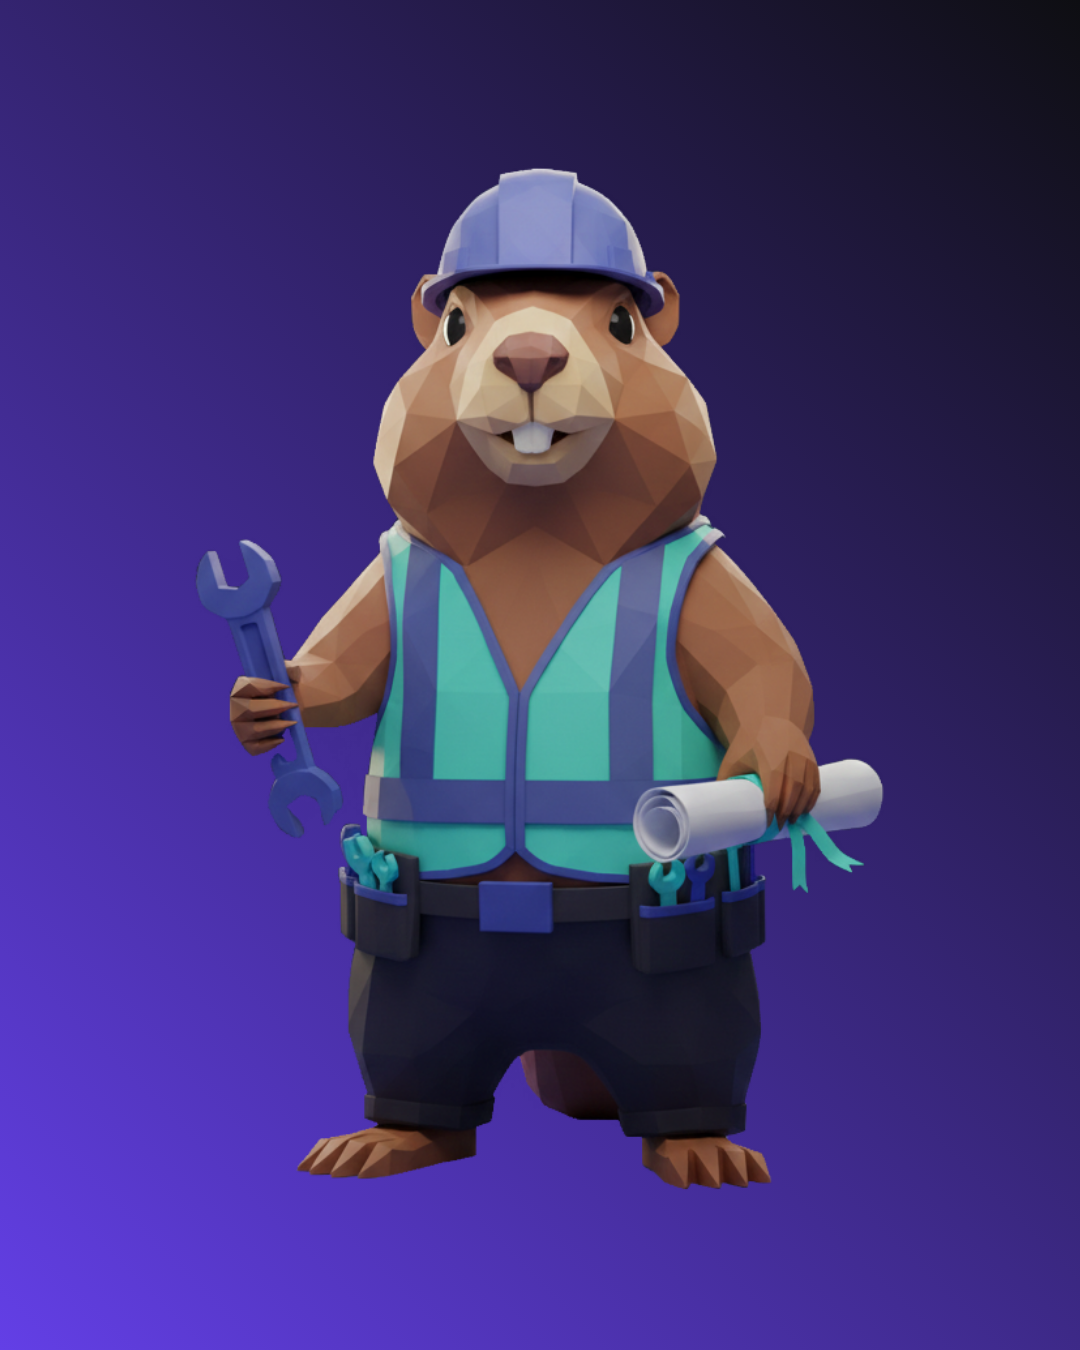
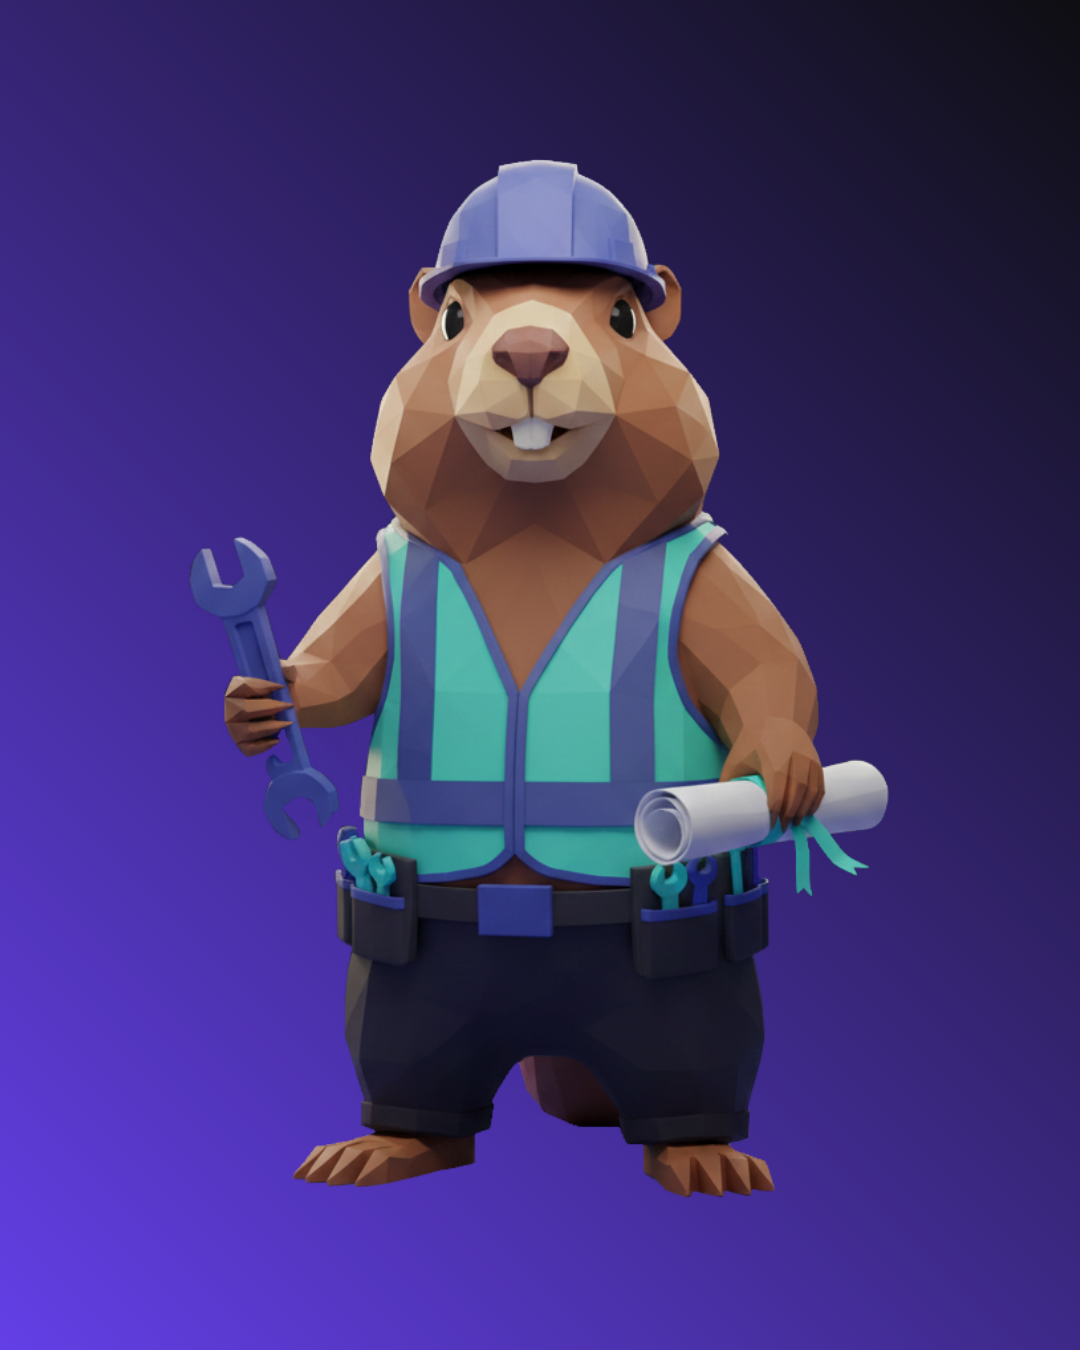
agents page

diff --git a/src/lib/translations.ts b/src/lib/translations.ts
@@ -1668,19 +1668,19 @@ export const translations: Record<Language, Translations> = {
         formError: "Das Kontaktformular konnte nicht geladen werden. Bitte lade die Seite neu oder schreibe uns an hello@noreja.com."
       },
       aiAgents: {
-        title: "KI-Agenten",
+        title: "KI-Agenten bei Noreja",
         subtitle: "Entdecke die nächste Generation intelligenter Automatisierung. Unsere KI-Agenten arbeiten mit deinem Team zusammen, um Prozesse zu optimieren, Entscheidungen zu verbessern und neue Möglichkeiten zu erschließen.",
         cards: {
           card1: {
-            title: "Intelligente Automatisierung",
+            title: "Builder Benny",
             description: "KI-Agenten, die deinen Geschäftskontext verstehen und komplexe Workflows mit Präzision und Anpassungsfähigkeit automatisieren."
           },
           card2: {
-            title: "Nahtlose Integration",
+            title: "Analyst Andy",
             description: "Verbinde KI-Fähigkeiten direkt mit deinen bestehenden Systemen und Prozessen ohne Unterbrechung."
           },
           card3: {
-            title: "Kontinuierliches Lernen",
+            title: "Compliance Conny",
             description: "Agenten, die sich mit deinem Unternehmen weiterentwickeln und aus Interaktionen lernen, um immer genauere Ergebnisse zu liefern."
           }
         },

diff --git a/src/pages/AIAgents.tsx b/src/pages/AIAgents.tsx
@@ -8,10 +8,11 @@ import { ArrowRight } from "lucide-react";
 // Agent card images
 import builderImage from "@/assets/agents/builder.webp";
 import complianceImage from "@/assets/agents/compliance.webp";
+import analystImage from "@/assets/agents/analyst.webp";
 
 const cardImages = {
   card1: builderImage,
-  card2: "/placeholder.svg", // Placeholder until image is added
+  card2: analystImage,
   card3: complianceImage,
 };
 
